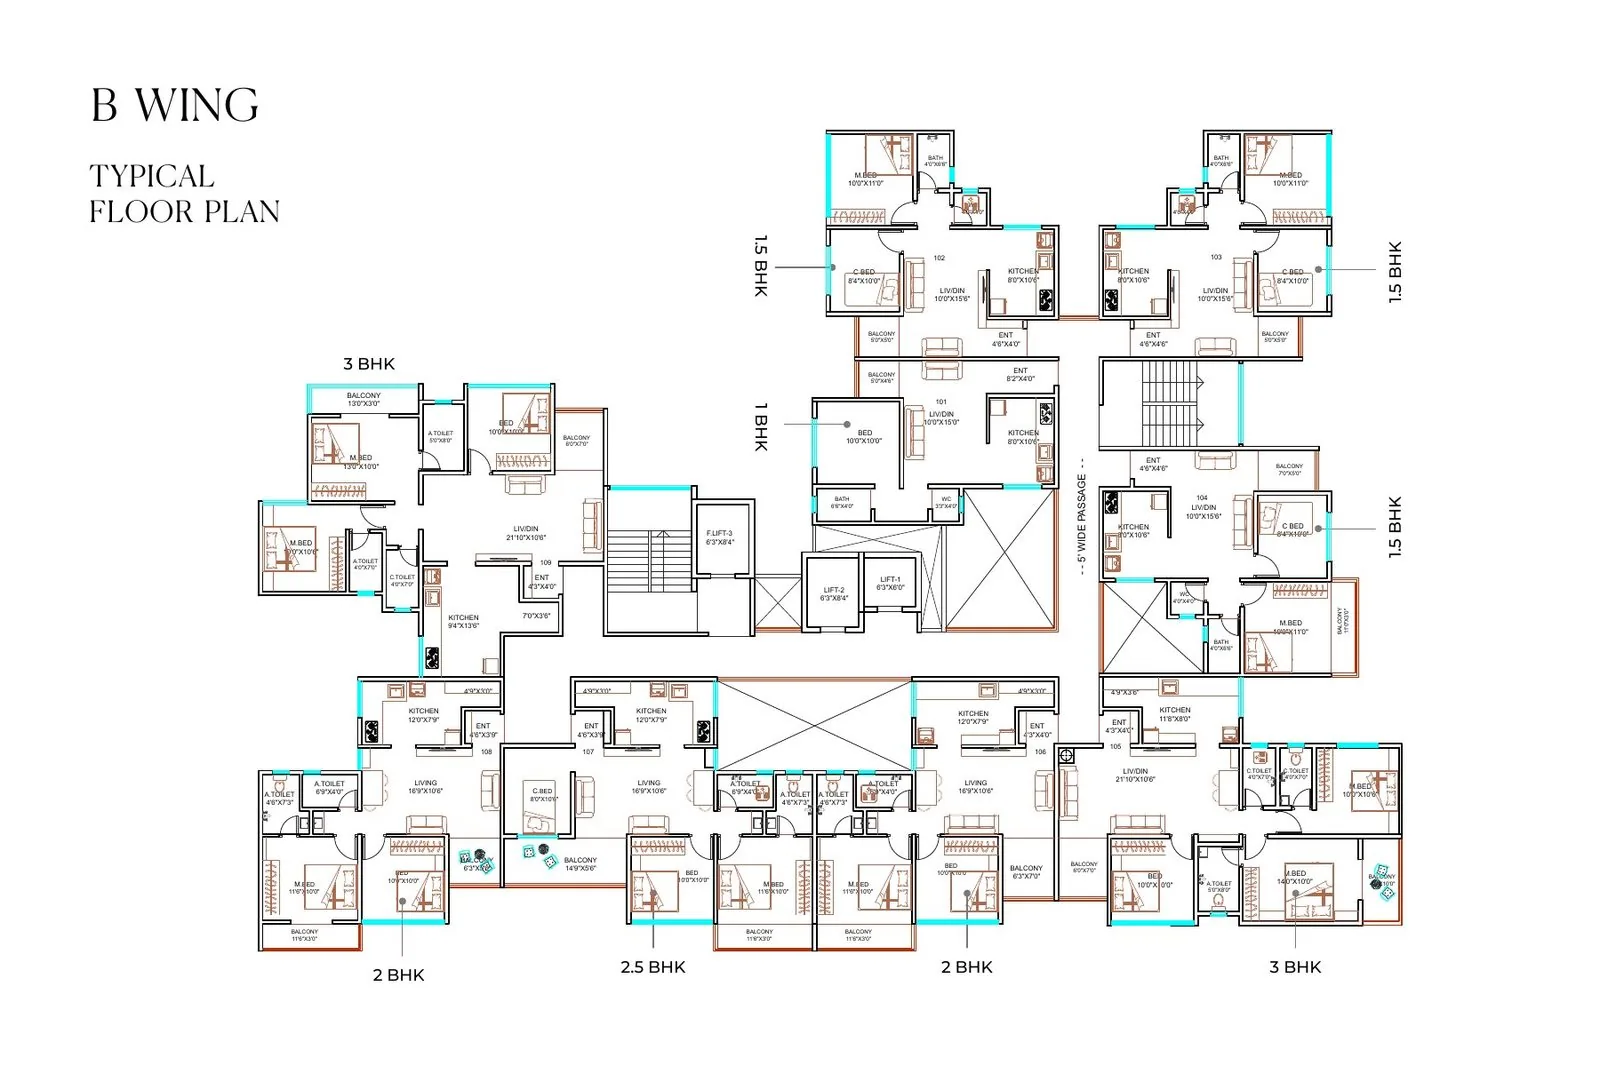
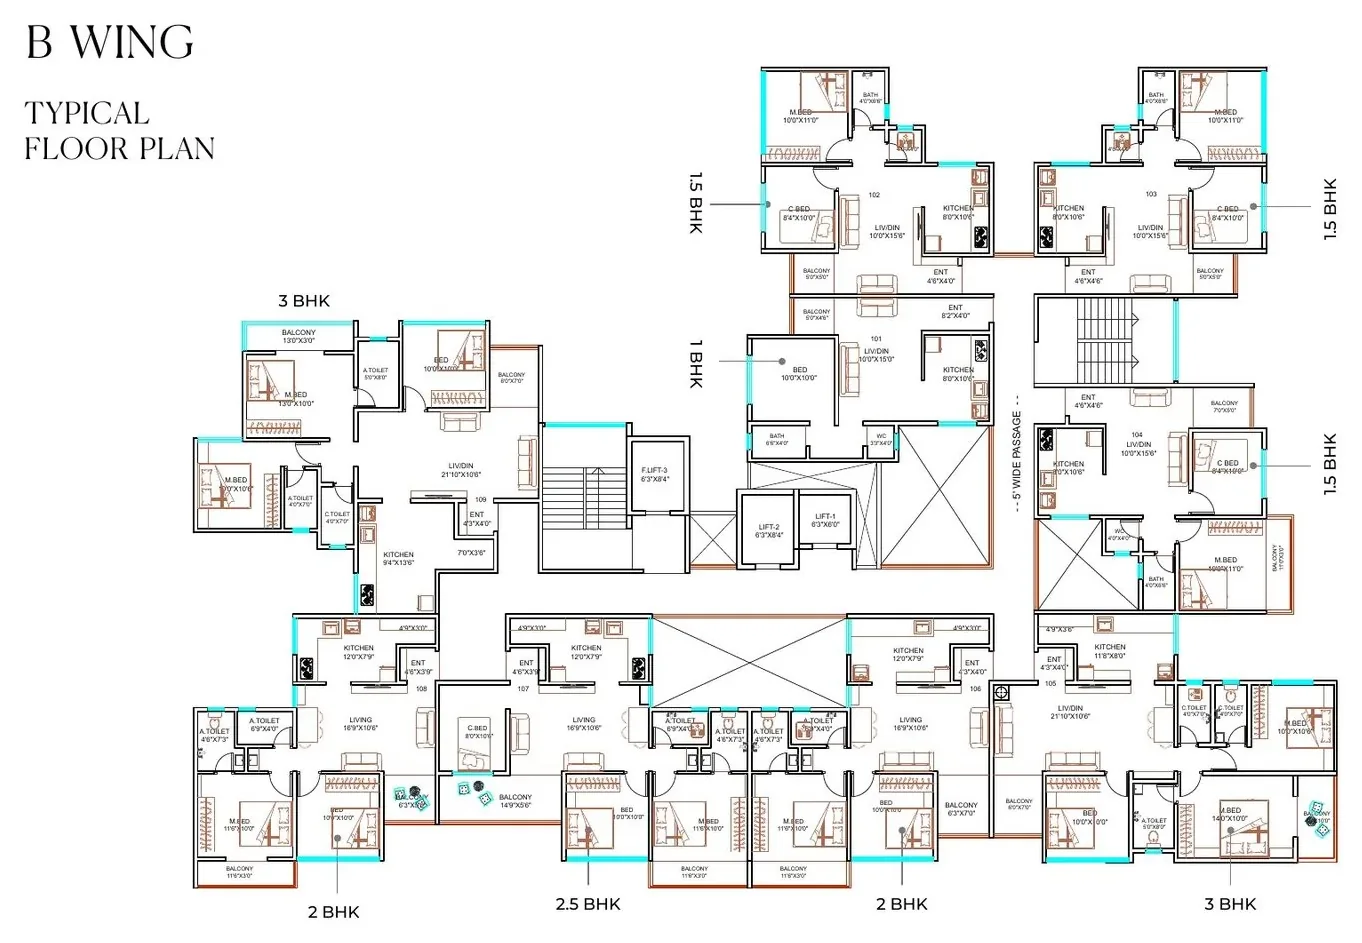
Fix stretched floor plan images and trim their whitespace
Claude-Session: https://claude.ai/code/session_01CpkiQRA6jk47iTSnnZeFMt

diff --git a/index.html b/index.html
@@ -475,7 +475,7 @@
     * { box-sizing: border-box; }
     html { scroll-behavior: smooth; scroll-padding-top: 70px; }
     body { margin: 0; font-family: var(--sans); color: var(--ink); background: var(--cream); line-height: 1.65; -webkit-font-smoothing: antialiased; }
-    img { max-width: 100%; display: block; }
+    img { max-width: 100%; height: auto; display: block; }
     button, input, select, textarea { font-family: inherit; }
     h1, h2, h3 { font-family: var(--serif); color: var(--teal); line-height: 1.2; margin: 0 0 .45em; font-weight: 500; }
     h2 { font-size: clamp(1.7rem, 3.6vw, 2.5rem); }
@@ -903,9 +903,9 @@
           <button role="tab" aria-selected="false" data-plan-tab="plan-c">C Wing</button>
           <button role="tab" aria-selected="false" data-plan-tab="plan-d">D Wing</button>
         </div>
-        <div class="plan-panel" id="plan-b"><button data-zoom="images/plan-b-wing.webp" data-alt="Raahee Parna B Wing typical floor plan, 2, 2.5 and 3 BHK"><img src="images/plan-b-wing.webp" alt="Raahee Parna B Wing typical floor plan, 2, 2.5 and 3 BHK" loading="lazy" width="1600" height="1066" decoding="async"></button><p>B Wing &middot; typical floor plan &middot; 2, 2.5 &amp; 3 BHK</p></div>
-        <div class="plan-panel plan-panel" id="plan-c" hidden><button data-zoom="images/plan-c-wing.webp" data-alt="Raahee Parna C Wing typical floor plan, 2, 2.5 and 3 BHK"><img src="images/plan-c-wing.webp" alt="Raahee Parna C Wing typical floor plan, 2, 2.5 and 3 BHK" loading="lazy" width="1600" height="1066" decoding="async"></button><p>C Wing &middot; typical floor plan &middot; 2, 2.5 &amp; 3 BHK</p></div>
-        <div class="plan-panel plan-panel" id="plan-d" hidden><button data-zoom="images/plan-d-wing.webp" data-alt="Raahee Parna D Wing typical floor plan"><img src="images/plan-d-wing.webp" alt="Raahee Parna D Wing typical floor plan" loading="lazy" width="1600" height="1066" decoding="async"></button><p>D Wing &middot; typical floor plan</p></div>
+        <div class="plan-panel" id="plan-b"><button data-zoom="images/plan-b-wing.webp" data-alt="Raahee Parna B Wing typical floor plan, 2, 2.5 and 3 BHK"><img src="images/plan-b-wing.webp" alt="Raahee Parna B Wing typical floor plan, 2, 2.5 and 3 BHK" loading="lazy" width="1362" height="943" decoding="async"></button><p>B Wing &middot; typical floor plan &middot; 2, 2.5 &amp; 3 BHK</p></div>
+        <div class="plan-panel plan-panel" id="plan-c" hidden><button data-zoom="images/plan-c-wing.webp" data-alt="Raahee Parna C Wing typical floor plan, 2, 2.5 and 3 BHK"><img src="images/plan-c-wing.webp" alt="Raahee Parna C Wing typical floor plan, 2, 2.5 and 3 BHK" loading="lazy" width="1456" height="944" decoding="async"></button><p>C Wing &middot; typical floor plan &middot; 2, 2.5 &amp; 3 BHK</p></div>
+        <div class="plan-panel plan-panel" id="plan-d" hidden><button data-zoom="images/plan-d-wing.webp" data-alt="Raahee Parna D Wing typical floor plan"><img src="images/plan-d-wing.webp" alt="Raahee Parna D Wing typical floor plan" loading="lazy" width="1459" height="871" decoding="async"></button><p>D Wing &middot; typical floor plan</p></div>
         <p style="margin-top:1.6rem"><button class="btn btn-teal" data-open-modal>Get Detailed Floor Plans &amp; Price</button></p>
       </div>
     </section>
